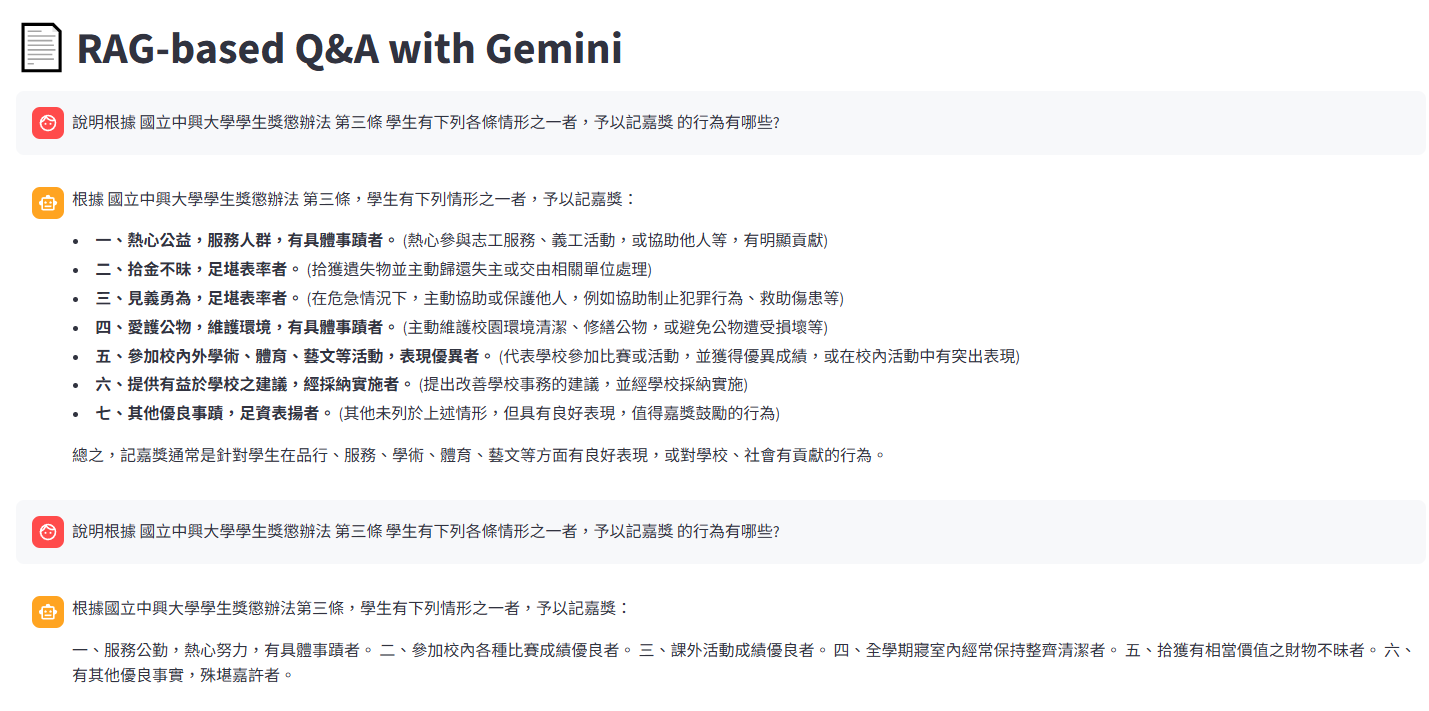
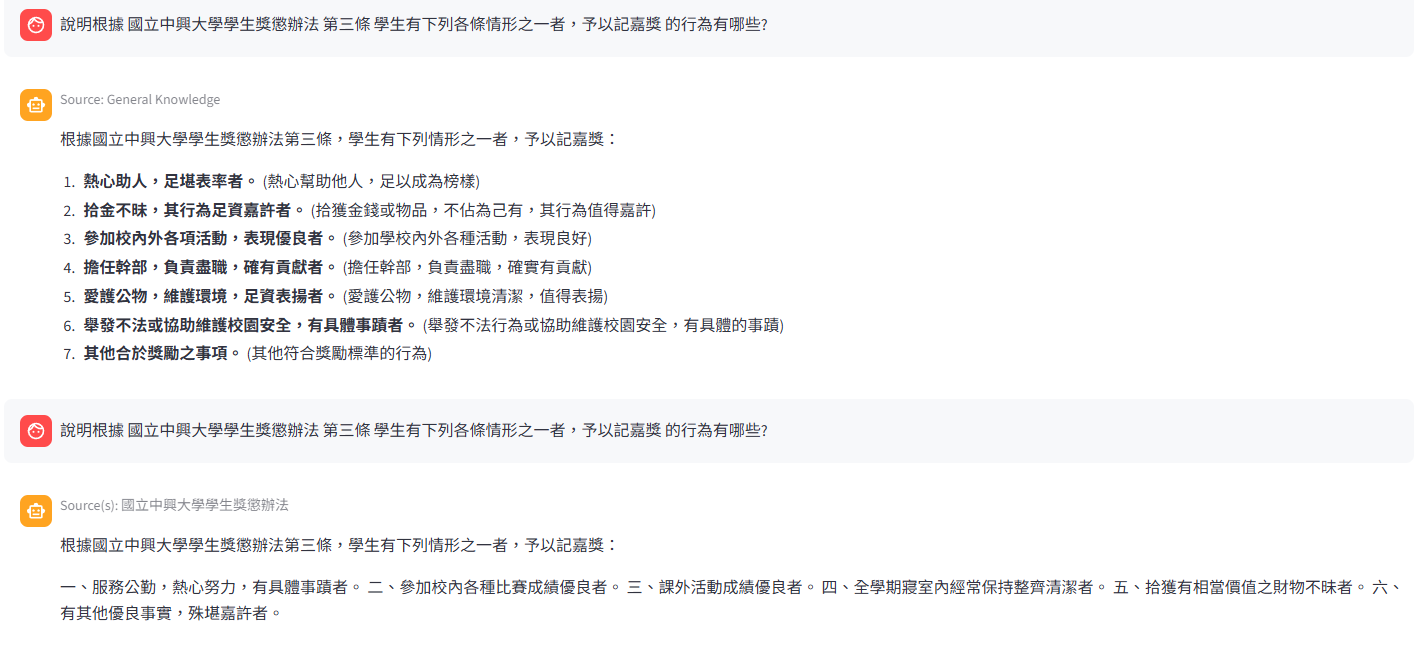
docs: Update demo images and README
Added new demo images (DEMO1_1.png, DEMO2_1.png) and updated existing ones (DEMO1.png, DEMO2.png) as well as the README.md to reflect these visual changes.

Changed region(s): [[0.0, 0.0, 0.9958, 0.9583]]

diff --git a/README.md b/README.md
@@ -32,9 +32,11 @@ You can interact with the application deployed on Streamlit Cloud via the follow
 
 ### DEMO1: `"說明根據 國立中興大學學生獎懲辦法 第三條 學生有下列各條情形之一者，予以記嘉獎 的行為有哪些?"`
 ![DEMO1 Screenshot](DEMO1.png)
+![DEMO1 Screenshot](DEMO1_1.png)
 
-### DEMO2: `"根據RAG資料 說明What are the symptoms of Mitral Valve Prolapse ?"`
+### DEMO2: `"根據RAG資料 簡單說明What are the symptoms of Mitral Valve Prolapse ?"`
 ![DEMO2 Screenshot](DEMO2.png)
+![DEMO2 Screenshot](DEMO2_1.png)
 
 ## References
 
